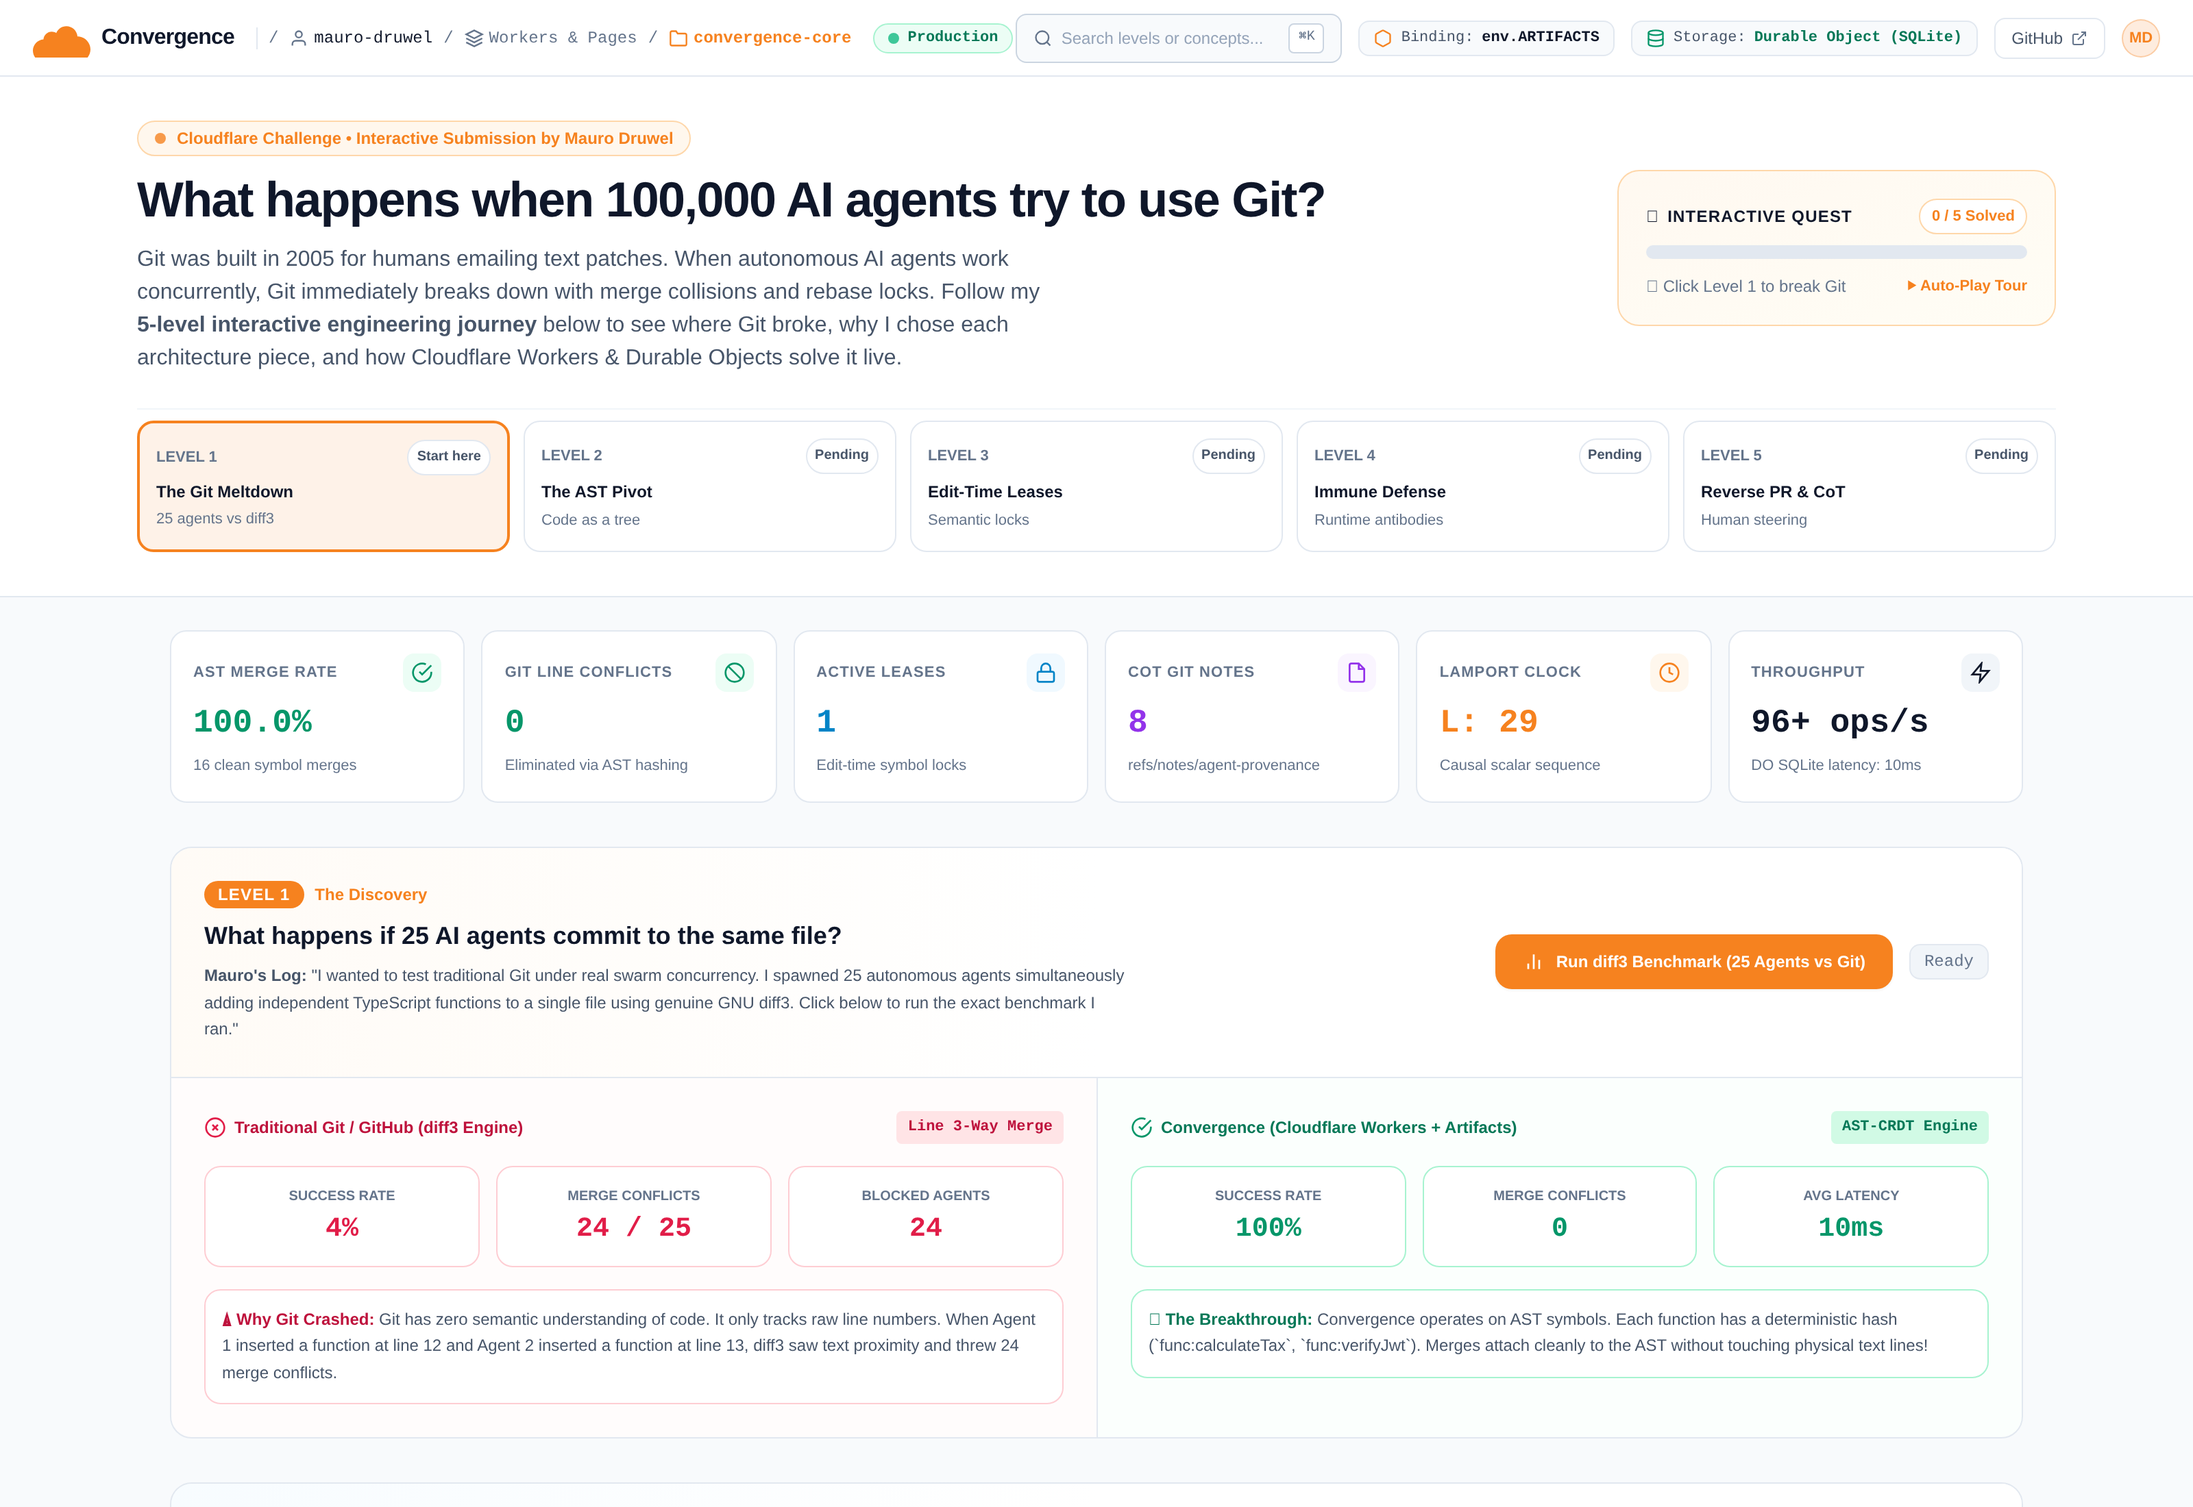
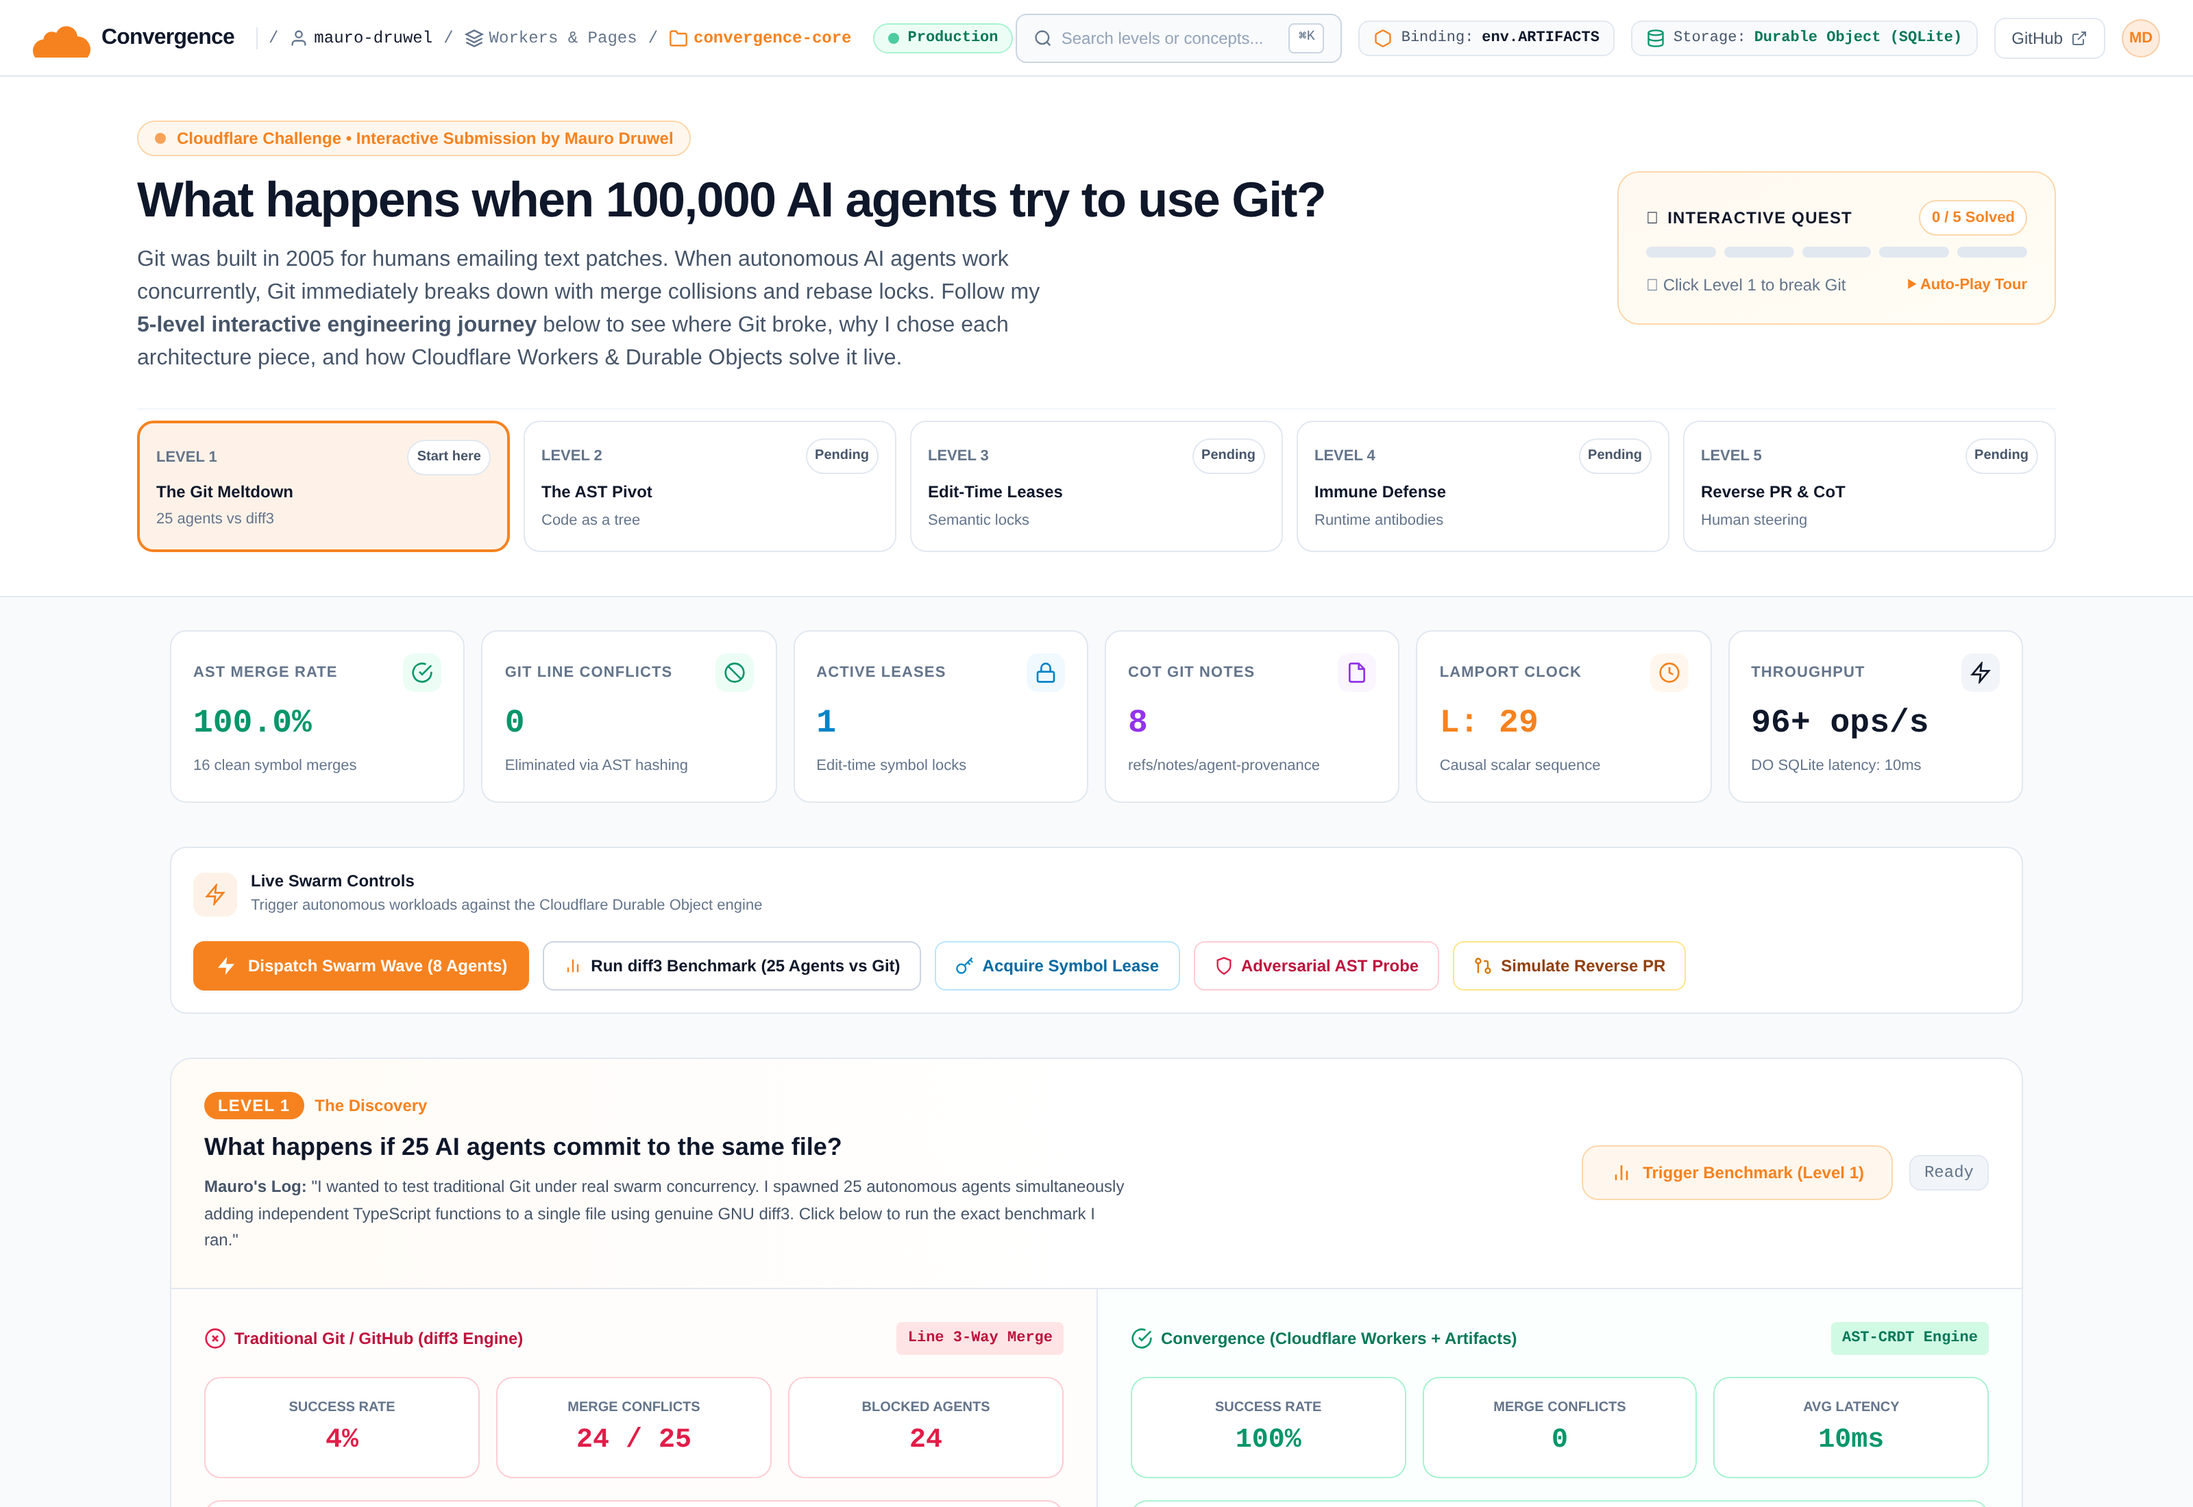
feat(ui): replace progress bar with 5-segment level indicators, fix grid layout, and add AI disclosure to footer

diff --git a/src/ui/dashboard.html b/src/ui/dashboard.html
@@ -157,8 +157,13 @@
               <span id="quest-completed-count">0</span> / 5 Solved
             </span>
           </div>
-          <div class="w-full bg-slate-200 h-2.5 rounded-full overflow-hidden mb-3">
-            <div id="quest-progress-bar" class="bg-[#F6821F] h-full rounded-full transition-all duration-500" style="width: 0%"></div>
+          <div class="grid grid-cols-5 gap-1.5 mb-3">
+            <div id="quest-seg-1" class="h-2 rounded-full bg-slate-200 transition-all"></div>
+            <div id="quest-seg-2" class="h-2 rounded-full bg-slate-200 transition-all"></div>
+            <div id="quest-seg-3" class="h-2 rounded-full bg-slate-200 transition-all"></div>
+            <div id="quest-seg-4" class="h-2 rounded-full bg-slate-200 transition-all"></div>
+            <div id="quest-seg-5" class="h-2 rounded-full bg-slate-200 transition-all"></div>
+            <div id="quest-progress-bar" class="hidden"></div>
           </div>
           <div class="text-xs text-[#64748B] flex items-center justify-between">
             <span id="quest-next-hint">👉 Click Level 1 to break Git</span>
@@ -304,6 +309,51 @@
       </div>
     </div>
 
+    <!-- INTERACTIVE CONTROL TOOLBAR -->
+    <div class="p-4 bg-white border border-[#E2E8F0] rounded-xl shadow-xs flex flex-wrap items-center justify-between gap-4">
+      <div class="flex items-center space-x-2.5">
+        <div class="w-8 h-8 rounded-lg bg-[#F6821F]/10 flex items-center justify-center text-[#F6821F]">
+          <svg class="w-4 h-4" viewBox="0 0 24 24" fill="none" stroke="currentColor" stroke-width="2"><polygon points="13 2 3 14 12 14 11 22 21 10 12 10 13 2"/></svg>
+        </div>
+        <div>
+          <div class="text-xs font-bold text-[#0F172A]">Live Swarm Controls</div>
+          <div class="text-[11px] text-[#64748B]">Trigger autonomous workloads against the Cloudflare Durable Object engine</div>
+        </div>
+      </div>
+
+      <div class="flex items-center flex-wrap gap-2.5">
+        <!-- Swarm Wave Button -->
+        <button id="btn-swarm" onclick="triggerSwarmWave()" class="h-9 px-4 bg-[#F6821F] hover:bg-[#FA8C16] text-white text-xs font-semibold rounded-lg transition shadow-sm flex items-center space-x-2 focus:ring-2 focus:ring-[#F6821F]/30">
+          <svg id="icon-swarm" class="w-4 h-4 fill-current" viewBox="0 0 24 24"><path d="M13 2L3 14h9l-1 8 10-12h-9l1-8z"/></svg>
+          <span id="btn-swarm-text">Dispatch Swarm Wave (8 Agents)</span>
+        </button>
+
+        <!-- Benchmark Button -->
+        <button id="btn-bench" onclick="runBenchmark()" class="h-9 px-3.5 bg-white hover:bg-slate-50 border border-[#CBD5E1] text-[#0F172A] text-xs font-semibold rounded-lg transition shadow-xs flex items-center space-x-1.5">
+          <svg id="icon-bench" class="w-3.5 h-3.5 text-[#F6821F]" viewBox="0 0 24 24" fill="none" stroke="currentColor" stroke-width="2"><line x1="18" y1="20" x2="18" y2="10"/><line x1="12" y1="20" x2="12" y2="4"/><line x1="6" y1="20" x2="6" y2="14"/></svg>
+          <span id="btn-bench-text">Run diff3 Benchmark (25 Agents vs Git)</span>
+        </button>
+
+        <!-- Lease Button -->
+        <button id="btn-lease" onclick="testLeaseAcquire()" class="h-9 px-3.5 bg-white hover:bg-sky-50 border border-sky-200 text-sky-700 text-xs font-semibold rounded-lg transition shadow-xs flex items-center space-x-1.5">
+          <svg id="icon-lease" class="w-3.5 h-3.5 text-sky-600" viewBox="0 0 24 24" fill="none" stroke="currentColor" stroke-width="2"><circle cx="7.5" cy="15.5" r="5.5"/><path d="M21 2l-9.6 9.6M15.5 7.5l3 3M18.5 4.5l3 3"/></svg>
+          <span id="btn-lease-text">Acquire Symbol Lease</span>
+        </button>
+
+        <!-- Immune Attack Button -->
+        <button id="btn-immune" onclick="testImmuneAttack()" class="h-9 px-3.5 bg-white hover:bg-rose-50 border border-rose-200 text-rose-700 text-xs font-semibold rounded-lg transition shadow-xs flex items-center space-x-1.5">
+          <svg id="icon-immune" class="w-3.5 h-3.5 text-rose-600" viewBox="0 0 24 24" fill="none" stroke="currentColor" stroke-width="2"><path d="M12 22s8-4 8-10V5l-8-3-8 3v7c0 6 8 10 8 10z"/></svg>
+          <span id="btn-immune-text">Adversarial AST Probe</span>
+        </button>
+
+        <!-- Reverse PR Simulation Button -->
+        <button id="btn-trigger-rpr" onclick="triggerTestRPR()" class="h-9 px-3.5 bg-white hover:bg-amber-50 border border-amber-200 text-amber-800 text-xs font-semibold rounded-lg transition shadow-xs flex items-center space-x-1.5">
+          <svg class="w-3.5 h-3.5 text-amber-600" viewBox="0 0 24 24" fill="none" stroke="currentColor" stroke-width="2"><circle cx="18" cy="18" r="3"/><circle cx="6" cy="6" r="3"/><path d="M13 6h3a2 2 0 0 1 2 2v7"/><line x1="6" y1="9" x2="6" y2="21"/></svg>
+          <span id="btn-rpr-text">Simulate Reverse PR</span>
+        </button>
+      </div>
+    </div>
+
     <!-- LEVEL 1: THE GIT MELTDOWN (diff3 BENCHMARK) -->
     <div id="section-benchmark" class="border border-[#E2E8F0] bg-white rounded-2xl shadow-xs overflow-hidden level-card">
       <div class="p-6 border-b border-[#E2E8F0] bg-gradient-to-r from-orange-50/50 via-white to-white">
@@ -319,9 +369,9 @@
             </p>
           </div>
           <div class="flex items-center space-x-3">
-            <button id="btn-bench" onclick="runBenchmark()" class="h-10 px-5 bg-[#F6821F] hover:bg-[#FA8C16] text-white text-xs font-bold rounded-xl transition shadow-sm flex items-center space-x-2">
-              <svg id="icon-bench" class="w-4 h-4" viewBox="0 0 24 24" fill="none" stroke="currentColor" stroke-width="2"><line x1="18" y1="20" x2="18" y2="10"/><line x1="12" y1="20" x2="12" y2="4"/><line x1="6" y1="20" x2="6" y2="14"/></svg>
-              <span id="btn-bench-text">Run diff3 Benchmark (25 Agents vs Git)</span>
+            <button onclick="runBenchmark()" class="h-10 px-5 bg-orange-50 hover:bg-orange-100 text-[#F6821F] border border-orange-200 text-xs font-bold rounded-xl transition shadow-2xs flex items-center space-x-2">
+              <svg class="w-4 h-4 text-[#F6821F]" viewBox="0 0 24 24" fill="none" stroke="currentColor" stroke-width="2"><line x1="18" y1="20" x2="18" y2="10"/><line x1="12" y1="20" x2="12" y2="4"/><line x1="6" y1="20" x2="6" y2="14"/></svg>
+              <span>Trigger Benchmark (Level 1)</span>
             </button>
             <span class="text-xs font-mono px-2.5 py-1 rounded-lg bg-slate-100 border border-slate-200 text-[#64748B]" id="bench-status">Ready</span>
           </div>
@@ -397,15 +447,15 @@
               <span class="px-2.5 py-0.5 rounded-full bg-sky-600 text-white text-xs font-bold uppercase tracking-wider">Level 2</span>
               <span class="text-xs font-bold text-sky-600">The Edge Radar</span>
             </div>
-            <h2 class="text-lg font-bold text-[#0F172A]">Code isn't text — code is a live semantic tree</h2>
+            <h2 class="text-lg font-bold text-[#0F172A]">Code isn't text: code is a live semantic tree</h2>
             <p class="text-xs text-[#475569] leading-relaxed">
               <strong>Mauro's Log:</strong> "Below is the real-time edge topology. Cloudflare Artifacts (backed by a Durable Object SQLite actor) sits at the center. Autonomous agents orbit around it. Dispatch an 8-agent swarm wave to watch them commit in parallel at 60 FPS."
             </p>
           </div>
           <div>
-            <button id="btn-swarm" onclick="triggerSwarmWave()" class="h-10 px-5 bg-sky-600 hover:bg-sky-700 text-white text-xs font-bold rounded-xl transition shadow-sm flex items-center space-x-2">
-              <svg id="icon-swarm" class="w-4 h-4 fill-current" viewBox="0 0 24 24"><path d="M13 2L3 14h9l-1 8 10-12h-9l1-8z"/></svg>
-              <span id="btn-swarm-text">Dispatch Swarm Wave (8 Agents)</span>
+            <button onclick="triggerSwarmWave()" class="h-10 px-5 bg-sky-50 hover:bg-sky-100 text-sky-700 border border-sky-200 text-xs font-bold rounded-xl transition shadow-2xs flex items-center space-x-2">
+              <svg class="w-4 h-4 fill-current" viewBox="0 0 24 24"><path d="M13 2L3 14h9l-1 8 10-12h-9l1-8z"/></svg>
+              <span>Dispatch Swarm (Level 2)</span>
             </button>
           </div>
         </div>
@@ -452,9 +502,9 @@
               <strong>Mauro's Log:</strong> "AST merges handle separate functions cleanly. But what if two agents decide to refactor <code>processOrder</code> at the exact same millisecond? In Git, both agents write hundreds of lines, and one gets rejected at merge time. In Convergence, agents acquire short TTL leases from the Durable Object before writing code."
             </p>
             <div class="mt-4">
-              <button id="btn-lease" onclick="testLeaseAcquire()" class="h-9 px-4 bg-amber-600 hover:bg-amber-700 text-white text-xs font-bold rounded-lg transition shadow-xs flex items-center space-x-1.5">
-                <svg id="icon-lease" class="w-3.5 h-3.5 text-white" viewBox="0 0 24 24" fill="none" stroke="currentColor" stroke-width="2"><circle cx="7.5" cy="15.5" r="5.5"/><path d="M21 2l-9.6 9.6M15.5 7.5l3 3M18.5 4.5l3 3"/></svg>
-                <span id="btn-lease-text">Acquire Symbol Lease</span>
+              <button onclick="testLeaseAcquire()" class="h-9 px-4 bg-amber-50 hover:bg-amber-100 text-amber-800 border border-amber-200 text-xs font-bold rounded-lg transition shadow-2xs flex items-center space-x-1.5">
+                <svg class="w-3.5 h-3.5 text-amber-600" viewBox="0 0 24 24" fill="none" stroke="currentColor" stroke-width="2"><circle cx="7.5" cy="15.5" r="5.5"/><path d="M21 2l-9.6 9.6M15.5 7.5l3 3M18.5 4.5l3 3"/></svg>
+                <span>Acquire Lease (Level 3)</span>
               </button>
             </div>
           </div>
@@ -505,9 +555,9 @@
               <strong>Mauro's Log:</strong> "AI agents frequently write code that compiles cleanly but misses boundary checks (e.g. allowing negative withdrawals or buffer overflows). I wanted to know: <em>Can the repository itself defend the code?</em> Click below to launch an adversarial probe that tries to commit an unvalidated negative input."
             </p>
             <div class="mt-4">
-              <button id="btn-immune" onclick="testImmuneAttack()" class="h-9 px-4 bg-rose-600 hover:bg-rose-700 text-white text-xs font-bold rounded-lg transition shadow-xs flex items-center space-x-1.5">
-                <svg id="icon-immune" class="w-3.5 h-3.5 text-white" viewBox="0 0 24 24" fill="none" stroke="currentColor" stroke-width="2"><path d="M12 22s8-4 8-10V5l-8-3-8 3v7c0 6 8 10 8 10z"/></svg>
-                <span id="btn-immune-text">Adversarial AST Probe</span>
+              <button onclick="testImmuneAttack()" class="h-9 px-4 bg-rose-50 hover:bg-rose-100 text-rose-700 border border-rose-200 text-xs font-bold rounded-lg transition shadow-2xs flex items-center space-x-1.5">
+                <svg class="w-3.5 h-3.5 text-rose-600" viewBox="0 0 24 24" fill="none" stroke="currentColor" stroke-width="2"><path d="M12 22s8-4 8-10V5l-8-3-8 3v7c0 6 8 10 8 10z"/></svg>
+                <span>Adversarial Probe (Level 4)</span>
               </button>
             </div>
           </div>
@@ -553,9 +603,9 @@ if (amount &lt;= 0) throw new RangeError('Security: Invalid amount');</pre>
               <strong>Mauro's Log:</strong> "Humans can't review 5,000 PRs per hour. But AI agents shouldn't make unilateral architecture decisions either. In Convergence, agents review code themselves and open a <strong>Reverse PR</strong> to ask YOU for steering when a high-level trade-off is required."
             </p>
             <div class="mt-4">
-              <button id="btn-trigger-rpr" onclick="triggerTestRPR()" class="h-9 px-4 bg-purple-600 hover:bg-purple-700 text-white text-xs font-bold rounded-lg transition shadow-xs flex items-center space-x-1.5">
-                <svg class="w-3.5 h-3.5 text-white" viewBox="0 0 24 24" fill="none" stroke="currentColor" stroke-width="2"><circle cx="18" cy="18" r="3"/><circle cx="6" cy="6" r="3"/><path d="M13 6h3a2 2 0 0 1 2 2v7"/><line x1="6" y1="9" x2="6" y2="21"/></svg>
-                <span id="btn-rpr-text">Simulate Reverse PR</span>
+              <button onclick="triggerTestRPR()" class="h-9 px-4 bg-purple-50 hover:bg-purple-100 text-purple-700 border border-purple-200 text-xs font-bold rounded-lg transition shadow-2xs flex items-center space-x-1.5">
+                <svg class="w-3.5 h-3.5 text-purple-600" viewBox="0 0 24 24" fill="none" stroke="currentColor" stroke-width="2"><circle cx="18" cy="18" r="3"/><circle cx="6" cy="6" r="3"/><path d="M13 6h3a2 2 0 0 1 2 2v7"/><line x1="6" y1="9" x2="6" y2="21"/></svg>
+                <span>Trigger Reverse PR (Level 5)</span>
               </button>
             </div>
           </div>
@@ -683,8 +733,13 @@ if (amount &lt;= 0) throw new RangeError('Security: Invalid amount');</pre>
           <span class="font-medium text-[#0F172A]">Durable Objects (Transactional SQLite)</span>
         </span>
       </div>
-      <div>
-        Cloudflare Challenge: <em>Build the Next Git Platform</em> — Built by <strong>Mauro Druwel</strong>
+      <div class="text-center md:text-right space-y-1">
+        <div>
+          Cloudflare Challenge: <em>Build the Next Git Platform</em> • Concept &amp; Architecture by <strong>Mauro Druwel</strong>
+        </div>
+        <div class="text-[11px] text-[#94A3B8]">
+          🤖 Interactive UI &amp; simulator created with AI assistance to prove the concept &amp; edge architecture.
+        </div>
       </div>
     </div>
   </footer>
@@ -785,7 +840,13 @@ if (amount &lt;= 0) throw new RangeError('Security: Invalid amount');</pre>
       completedLevels.add(levelNum);
       const count = completedLevels.size;
       document.getElementById('quest-completed-count').innerText = count;
-      document.getElementById('quest-progress-bar').style.width = `${(count / 5) * 100}%`;
+      const pbar = document.getElementById('quest-progress-bar');
+      if (pbar) pbar.style.width = `${(count / 5) * 100}%`;
+
+      const seg = document.getElementById(`quest-seg-${levelNum}`);
+      if (seg) {
+        seg.className = 'h-2 rounded-full bg-[#F6821F] transition-all shadow-xs';
+      }
 
       const badge = document.getElementById(`badge-level-${levelNum}`);
       if (badge) {
